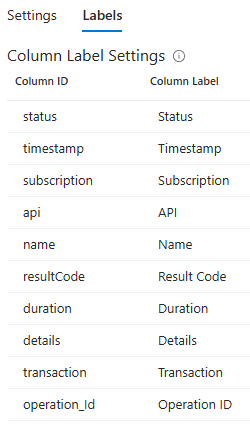
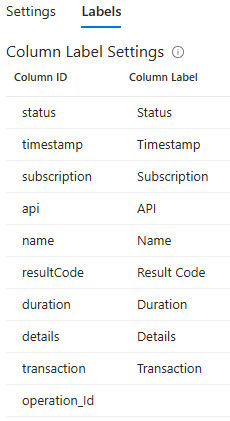
Hide operation ID and show dependencies in details table

diff --git a/content/blog/azure-workbook-tips-and-tricks/index.md b/content/blog/azure-workbook-tips-and-tricks/index.md
@@ -24,6 +24,7 @@ In this blog post I'll share some tips & tricks that I've gathered over the year
   - [Duration Formatting](#duration-formatting)
   - [Request Details in Context Pane](#request-details-in-context-pane)
   - [End-to-end Transaction Details](#end-to-end-transaction-details)
+  - [Hide Operation ID](#hide-operation-id)
   - [Column Labels](#column-labels)
 - [Totals (tiles)](#totals-tiles)
 - [Master-detail Table](#master-detail-table)
@@ -56,7 +57,7 @@ By clicking on 'View in Logs' you'll go to the Logs screen where the query we've
 ```kusto
 union isfuzzy = true requests
 | where timestamp > datetime("2026-10-18T13:05:55.344Z") and timestamp < datetime("2026-10-19T13:05:55.344Z")
-| where customDimensions["Service ID"] in("apim-robo-test")
+| where customDimensions["Service ID"] in("apim-monitorais-frc-u7eei")
 | where customDimensions["API Name"] in("user-ratings-api", "movies-api")
 | order by timestamp desc
 | take 100
@@ -78,7 +79,7 @@ We'll be reusing the same query in different parts of our workbook, so we're goi
 
 ```kusto
 requests
-| where customDimensions["Service ID"] == "apim-robo-test"
+| where customDimensions["Service ID"] == "apim-monitorais-frc-u7eei"
 | extend subscription = tostring(customDimensions["Subscription Name"])
     , api = tostring(customDimensions["API Name"])
 ```
@@ -279,7 +280,7 @@ See the [Rendering options](https://learn.microsoft.com/en-us/azure/azure-monito
 By default, the duration is displayed in milliseconds. Making it difficult to quickly see how long a request took. We can configure a different renderer and custom number formatting to improve readability.
 
 Follow these steps:
-- Open the column settings again  and select the duration column
+- Open the column settings again and select the duration column
 - Select 'Bar (underneath)' in the 'Column renderer' drop down
 - Check the 'Custom number formatting' checkbox
 - Select Milliseconds as the unit
@@ -298,7 +299,7 @@ Now, the duration column will display the value in milliseconds or seconds, depe
 To show more information about a request, we can change the details column to show a link that opens the request details to the side.
 
 Follow these steps:
-- Open the column settings again  and select the details column
+- Open the column settings again and select the details column
 - Select Link in the 'Column renderer' drop down
 - Enter '11ch' as the 'Custom Column Width'
 - Select 'Request Details' in the 'View to open' drop down
@@ -334,6 +335,18 @@ Choose 'Save and Close' to see the results.
 When you click on a transaction link, the end-to-end transaction screen is opened. See the example below.
 
 ![End-to-end Transaction Details](../../../../../images/azure-workbook-tips-and-tricks/end-to-end-transaction-details.png)
+
+#### Hide Operation ID
+
+We'll use the `operation_Id` further on to load dependencies of a selected request, but I want to hide the column in this table.
+
+Follow these steps:
+- Open the column settings again and select the operation_Id column
+- Select Hidden in the 'Column renderer' drop down
+
+![Operation ID Column Transaction](../../../../../images/azure-workbook-tips-and-tricks/table-column-operation-id.png)
+
+Choose 'Save and Close' to see the results.
 
 #### Column Labels
 
@@ -387,12 +400,11 @@ We can add a title to the chart to clarify what is displayed. Go to Advanced Set
 
 I usually display the totals above a table. You can move the Tiles section above the table by choosing 'Move > Move up'.
 
-
 ### Master-detail Table
 
 Tables and other items provide the option to select data. We can use that selection as a filter in other items. 
 
-As an example, we'll create a master-detail table. When a request in the master table is selected, all requests that have the same operation id will be displayed in the detail table. See the example below.
+As an example, we'll create a master-detail table. When a request in the master table is selected, all dependencies that have the same operation id will be displayed in the details table. See the example below.
 
 ![Master-detail Table](../../../../../images/azure-workbook-tips-and-tricks/master-detail-table.png)
 
@@ -419,13 +431,13 @@ Choose 'Add > Add query' to add another table. Select Time as the Time Range and
 Add the following query.
 
 ```kusto
-ApimRequests
+dependencies
 | where operation_Id == '{SelectedOperationId}'
 | project status = iif(success==true, "success", "error")
     , timestamp
-    , subscription
-    , api
+    , target
     , name
+    , type
     , resultCode
     , duration
     , details = itemId
@@ -433,9 +445,9 @@ ApimRequests
 | order by timestamp desc
 ```
 
-This query looks like the previous one, but only filters on the `operation_Id` column using the exported parameter of the master table. 
+This query looks like the query for requests. A view columns are different and it only filters on the `operation_Id` column using the exported parameter of the master table. 
 
-You can customize the columns again, similar to the master table. I also like to add a chart title in which I display the selected value. You can update the chart title in the Advanced Settings with: `Requests for operation: {SelectedOperationId}`.
+You can customize the styling of the columns again, similar to the master table. I also like to add a chart title in which I display the selected value. You can update the chart title in the Advanced Settings with: `Dependencies of operation: {SelectedOperationId}`.
 
 #### Show Detail Table on Selection
 
